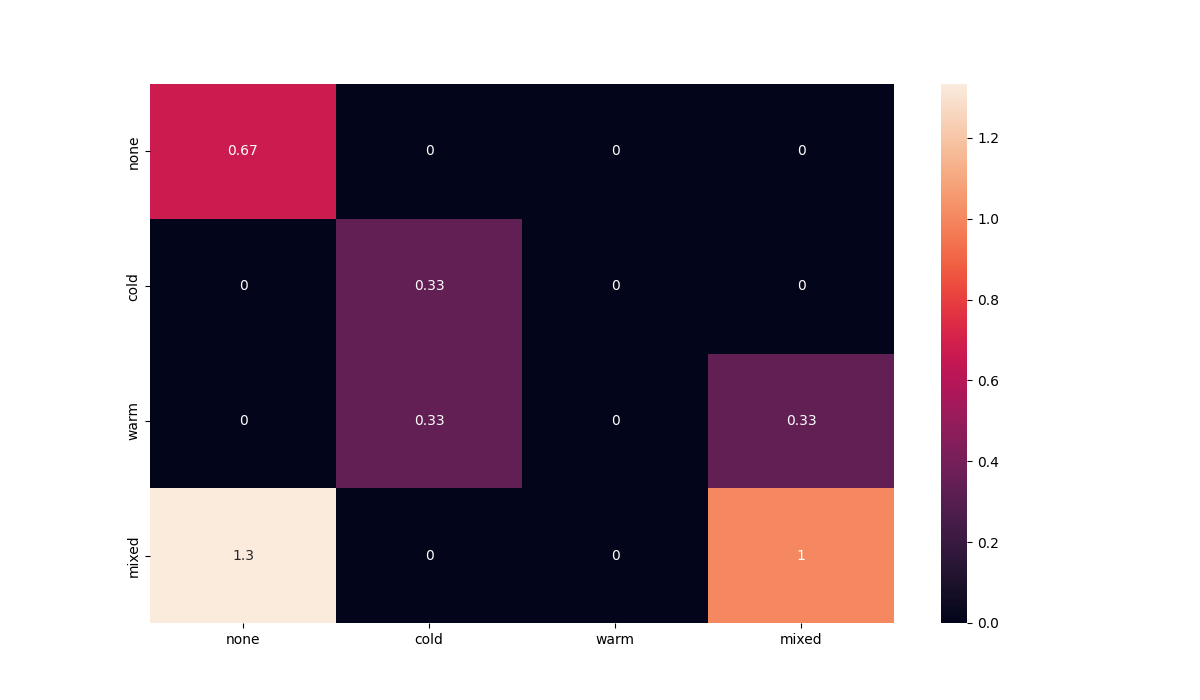
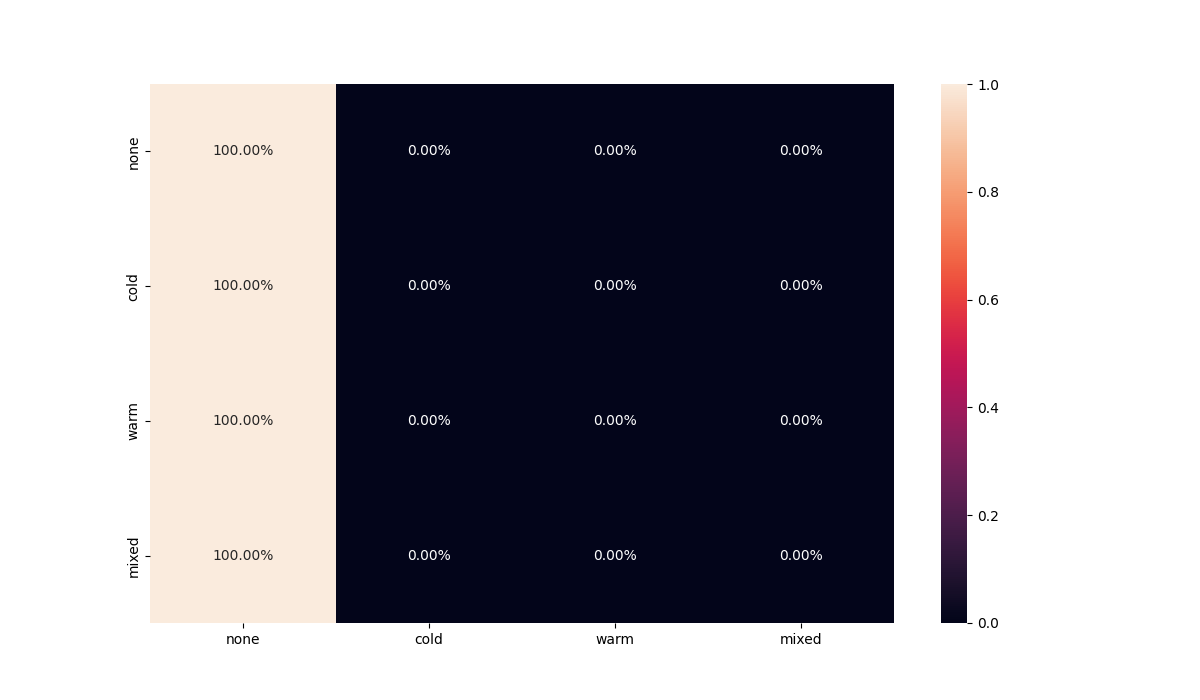
update cnn version 2

diff --git a/MIRPRapp/network.py b/MIRPRapp/network.py
@@ -49,28 +49,30 @@ class SimpleNet(nn.Module):
 
         self.unit12 = Unit(in_channels=256, out_channels=512, kernel_size=3)
         self.unit13 = Unit(in_channels=512, out_channels=512, kernel_size=3)
-        self.unit14 = Unit(in_channels=512, out_channels=512, kernel_size=3)
+        # self.unit14 = Unit(in_channels=512, out_channels=512, kernel_size=3)
 
         # self.upsample1 = nn.Upsample(scale_factor=2)
         # self.unit15 = Unit(in_channels=512, out_channels=512, kernel_size=3)
 
-        self.unit16 = Unit(in_channels=512, out_channels=256, kernel_size=3)
-        self.unit17 = Unit(in_channels=256, out_channels=256, kernel_size=3)
-        self.unit18 = Unit(in_channels=256, out_channels=256, kernel_size=3)
-
+        self.unit14 = Unit(in_channels=512, out_channels=256, kernel_size=3)
+        # self.unit17 = Unit(in_channels=256, out_channels=512, kernel_size=3)
+        self.unit15 = Unit(in_channels=256, out_channels=128, kernel_size=3)
+        self.unit16 = Unit(in_channels=128, out_channels=128, kernel_size=3)
         # self.upsample2 = nn.UpsamplingNearest2d(scale_factor=2)
         # self.unit19 = Unit(in_channels=256, out_channels=256, kernel_size=3)
 
-        self.unit20 = Unit(in_channels=256, out_channels=128, kernel_size=3)
-        self.unit21 = Unit(in_channels=128, out_channels=128, kernel_size=3)
-        self.unit22 = Unit(in_channels=128, out_channels=128, kernel_size=3)
+        # self.unit20 = Unit(in_channels=512, out_channels=128, kernel_size=3)
+        self.unit17 = Unit(in_channels=128, out_channels=64, kernel_size=3)
+        # self.unit22 = Unit(in_channels=128, out_channels=128, kernel_size=3)
 
         # self.upsample3 = nn.UpsamplingNearest2d(scale_factor=2)
         # self.unit23 = Unit(in_channels=128, out_channels=128, kernel_size=3)
 
-        self.unit24 = Unit(in_channels=128, out_channels=64, kernel_size=3)
-        self.unit25 = Unit(in_channels=64, out_channels=64, kernel_size=3)
-        self.unit26 = Unit(in_channels=64, out_channels=32, kernel_size=3)
+        # self.unit24 = Unit(in_channels=128, out_channels=64, kernel_size=3)
+        # self.unit25 = Unit(in_channels=64, out_channels=64, kernel_size=3)
+        self.unit18 = Unit(in_channels=64, out_channels=64, kernel_size=3)
+        self.unit19 = Unit(in_channels=64, out_channels=32, kernel_size=3)
+        self.unit20 = Unit(in_channels=32, out_channels=32, kernel_size=3)
 
         # Add all the units into the Sequential layer in exact order
         self.net = nn.Sequential(self.unit1, self.unit2,  self.unit3, self.unit4, self.unit5,
@@ -79,15 +81,17 @@ class SimpleNet(nn.Module):
                                  self.pool3, self.unit12, self.unit13, self.unit14,
                                  # self.upsample1,
                                  # self.unit15,
-                                 self.unit16, self.unit17, self.unit18,
+                                 self.unit15, self.unit16, self.unit17,
                                  # self.upsample2,
-                                 # self.unit19,
+                                 self.unit18,
+                                 self.unit19,
                                  self.unit20,
-                                 self.unit21, self.unit22,
+                                 # self.unit21, self.unit22,
                                  # self.upsample3,
                                  # self.unit23,
-                                 self.unit24,
-                                 self.unit25, self.unit26)
+                                 # self.unit24,
+                                 # self.unit25, self.unit26
+                                 )
 
         self.fc = nn.Linear(in_features=512, out_features=num_classes)
 

diff --git a/MIRPRapp/train.py b/MIRPRapp/train.py
@@ -1,12 +1,11 @@
+import copy
 import os
 from sklearn.metrics import confusion_matrix
 import numpy as np
 import torch
 import torch.nn as nn
-from torchmetrics import ConfusionMatrix, Accuracy
 from torch.utils.data import DataLoader
 from torch.optim import Adam
-import pandas as pd
 import seaborn as sns
 import matplotlib.pyplot as plt
 
@@ -48,28 +47,29 @@ def getNumberOfPhotos(training):
 
 
 accuracies_by_classes = []
-
-confmat = confusion_matrix([], [])
+classes_names = ['none', 'cold', 'warm', 'mixed']
+confmat = confusion_matrix([], [], labels=classes_names)
+best_confmat = confusion_matrix([], [], labels=classes_names)
 
 
 def test():
     global confmat
     model.eval()
     test_acc = 0.0
+    labels_for_matrix = []
+    predictions = []
     for i, (images, labels) in enumerate(test_loader):
         # Predict classes using images from the test set
         outputs = model(images)
         _, prediction = torch.max(outputs.data, 1)
         # prediction = prediction.cpu().numpy()
-        accuracy = Accuracy(num_classes=4)
-        accuracy(prediction, labels.data)
-        accuracies_by_classes.append(accuracy)
-
-        confmat = confusion_matrix(labels.data, prediction)
-
+        labels_for_matrix.extend(labels.data)
+        predictions.extend(prediction)
         test_acc += torch.sum(torch.eq(prediction, labels.data))
 
-    # Compute the average acc and loss over all 9 test images
+    confmat = confusion_matrix(labels_for_matrix, predictions)
+    accuracies_by_classes.append(confmat.diagonal() / confmat.sum(axis=1))
+    # Compute the average acc and loss over all test images
     test_acc = test_acc / getNumberOfPhotos(False)
     return test_acc
 
@@ -79,6 +79,7 @@ losses = []
 
 
 def train(num_epochs):
+    global best_confmat
     best_acc = 0.0
 
     for epoch in range(num_epochs):
@@ -121,6 +122,7 @@ def train(num_epochs):
         if test_acc > best_acc:
             save_models(epoch)
             best_acc = test_acc
+            best_confmat = copy.deepcopy(confmat)
 
         # Print the metrics
         print("Epoch {}, Train Accuracy: {} , TrainLoss: {} , Test Accuracy: {}".format(epoch, train_acc, train_loss,
@@ -153,17 +155,23 @@ model = SimpleNet(num_classes=4)
 
 optimizer = Adam(model.parameters(), lr=0.001, weight_decay=0.0001)
 loss_fn = nn.CrossEntropyLoss()
-classes_names = ['none', 'cold', 'warm', 'mixed']
 
 if __name__ == "__main__":
-    train(100)
+    train(50)
     plt.plot(test_accuracies, color='blue')
-    plt.plot(test_accuracies, color='red')
     plt.show()
     # print_confusion_matrix(confmat, ['none', 'cold', 'warm', 'mixed'])
-    df_cm = pd.DataFrame(confmat / np.sum(confmat) * 4, index=[i for i in classes_names],
-                         columns=[i for i in classes_names])
+    # df_cm = pd.DataFrame(, index=[i for i in classes_names],
+    #                      columns=[i for i in classes_names])
+
+    plt.plot([acc[0] for acc in accuracies_by_classes], color='orange', label='none')  # none
+    plt.plot([acc[1] for acc in accuracies_by_classes], color='blue', label='cold')  # cold
+    plt.plot([acc[2] for acc in accuracies_by_classes], color='red', label='warm')  # warm
+    plt.plot([acc[3] for acc in accuracies_by_classes], color='green', label='mixed')  # mixed
+    plt.legend(loc="upper left")
+    plt.show()
+
     plt.figure(figsize=(12, 7))
-    sns.heatmap(df_cm, annot=True)
+    sns.heatmap(best_confmat/np.sum(best_confmat) * 4, annot=True, fmt='.2%', yticklabels=classes_names,
+                xticklabels=classes_names)
     plt.savefig('output.png')
-    print(accuracies_by_classes)
